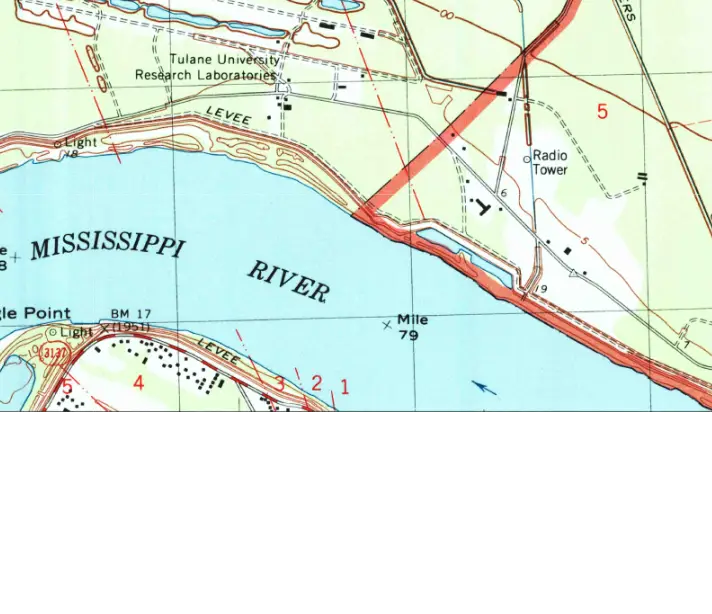
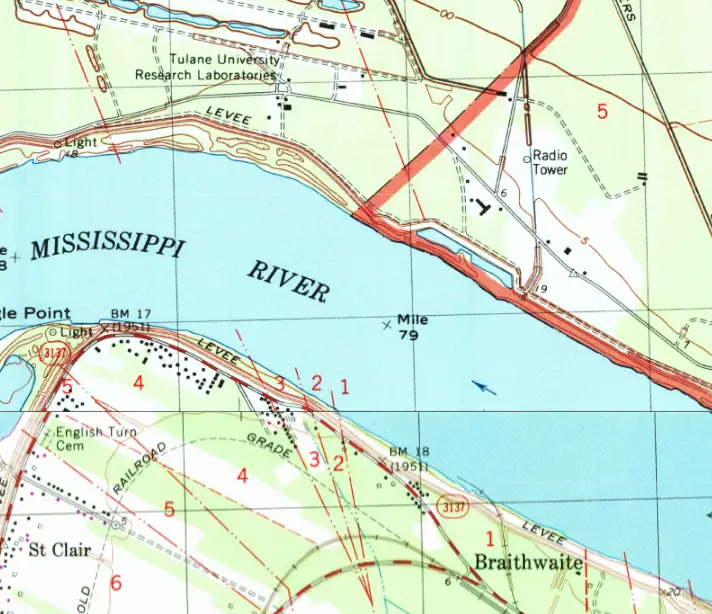
update

Changed region(s): [[0.0, 0.6498, 1.0, 1.0], [0.1545, 0.9283, 0.1854, 0.9593]]

diff --git a/index.html b/index.html
@@ -843,7 +843,72 @@ var bounds261 = [[-307,1637], [-368,1708]];
 var image261 = L.imageOverlay('img/map6-24.webp', bounds261).addTo(map);
 map.fitBounds(bounds261);
 
-var bounds0 = [[0,0], [-921,1708]];
+var bounds262 = [[-673,1140], [-737,1210]];
+var image262 = L.imageOverlay('img/map12-17.webp', bounds262).addTo(map);
+map.fitBounds(bounds262);
+var bounds263 = [[-673,1210], [-737,1282]];
+var image263 = L.imageOverlay('img/map12-18.webp', bounds263).addTo(map);
+map.fitBounds(bounds263);
+var bounds264 = [[-673,1282], [-737,1353]];
+var image264 = L.imageOverlay('img/map12-19.webp', bounds264).addTo(map);
+map.fitBounds(bounds264);
+var bounds265 = [[-673,1353], [-737,1424]];
+var image265 = L.imageOverlay('img/map12-20.webp', bounds265).addTo(map);
+map.fitBounds(bounds265);
+
+var bounds266 = [[-737,1140], [-798,1210]];
+var image266 = L.imageOverlay('img/map13-17.webp', bounds266).addTo(map);
+map.fitBounds(bounds266);
+var bounds267 = [[-737,1210], [-798,1282]];
+var image267 = L.imageOverlay('img/map13-18.webp', bounds267).addTo(map);
+map.fitBounds(bounds267);
+var bounds268 = [[-737,1282], [-798,1353]];
+var image268 = L.imageOverlay('img/map13-19.webp', bounds268).addTo(map);
+map.fitBounds(bounds268);
+var bounds269 = [[-737,1353], [-798,1424]];
+var image269 = L.imageOverlay('img/map13-20.webp', bounds269).addTo(map);
+map.fitBounds(bounds269);
+
+var bounds270 = [[-798,1140], [-860,1210]];
+var image270 = L.imageOverlay('img/map14-17.webp', bounds270).addTo(map);
+map.fitBounds(bounds270);
+var bounds271 = [[-798,1210], [-860,1282]];
+var image271 = L.imageOverlay('img/map14-18.webp', bounds271).addTo(map);
+map.fitBounds(bounds271);
+var bounds272 = [[-798,1282], [-860,1353]];
+var image272 = L.imageOverlay('img/map14-19.webp', bounds272).addTo(map);
+map.fitBounds(bounds272);
+var bounds273 = [[-798,1353], [-860,1424]];
+var image273 = L.imageOverlay('img/map14-20.webp', bounds273).addTo(map);
+map.fitBounds(bounds273);
+
+var bounds274 = [[-860,1140], [-921,1210]];
+var image274 = L.imageOverlay('img/map15-17.webp', bounds274).addTo(map);
+map.fitBounds(bounds274);
+var bounds275 = [[-860,1210], [-921,1282]];
+var image275 = L.imageOverlay('img/map15-18.webp', bounds275).addTo(map);
+map.fitBounds(bounds275);
+var bounds276 = [[-860,1282], [-921,1353]];
+var image276 = L.imageOverlay('img/map15-19.webp', bounds276).addTo(map);
+map.fitBounds(bounds276);
+var bounds277 = [[-860,1353], [-921,1424]];
+var image277 = L.imageOverlay('img/map15-20.webp', bounds277).addTo(map);
+map.fitBounds(bounds277);
+
+var bounds278 = [[-921,1140], [-982,1210]];
+var image278 = L.imageOverlay('img/map16-17.webp', bounds278).addTo(map);
+map.fitBounds(bounds278);
+var bounds279 = [[-921,1210], [-982,1282]];
+var image279 = L.imageOverlay('img/map16-18.webp', bounds279).addTo(map);
+map.fitBounds(bounds279);
+var bounds280 = [[-921,1282], [-982,1353]];
+var image280 = L.imageOverlay('img/map16-19.webp', bounds280).addTo(map);
+map.fitBounds(bounds280);
+var bounds281 = [[-921,1353], [-982,1424]];
+var image281 = L.imageOverlay('img/map16-20.webp', bounds281).addTo(map);
+map.fitBounds(bounds281);
+
+var bounds0 = [[0,0], [-982,1708]];
 var image0 = L.imageOverlay('img/mapblank.webp', bounds0).addTo(map);
 map.fitBounds(bounds0);
 
